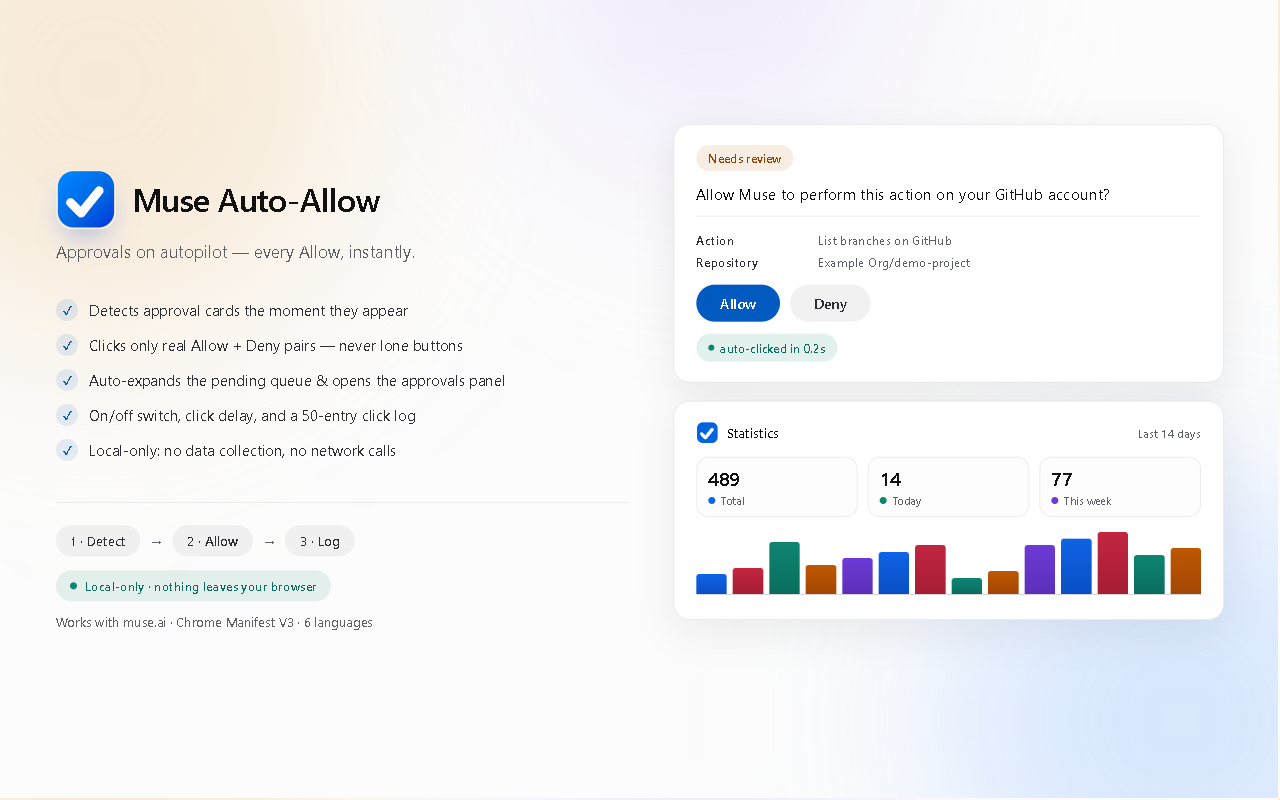
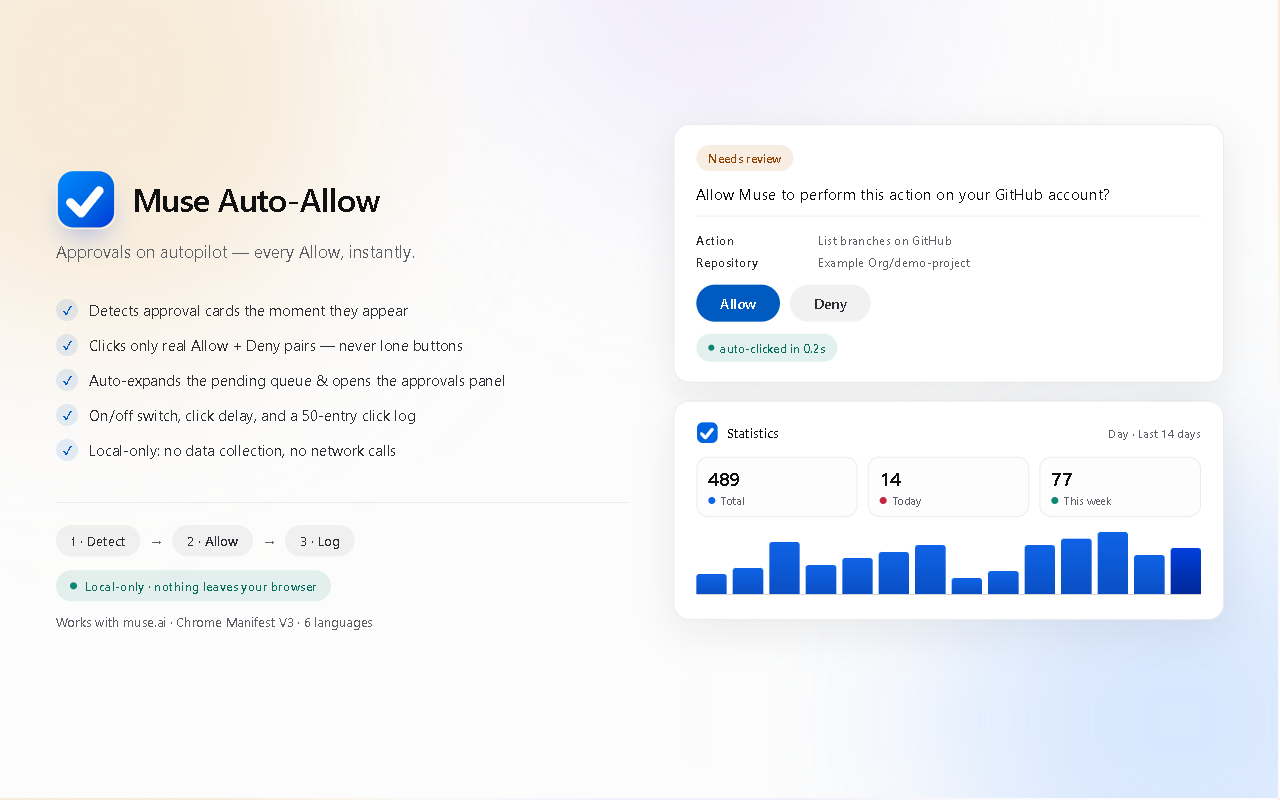
feat(v1.7.0 W2): premium stats chart + full store asset re-render
Single-hue trend with today accent, palette-aligned KPI chips, dynamic range caption, y-max gridline; all six store assets re-rendered from the frozen UI (popup seeds follow-up ON), PNG sizes exact, marquee truncation defect fixed; BRANDING/SHOWCASE updated with computed contrast. Vision 9-10/10 light+dark.

Changed region(s): [[0.5625, 0.6562, 0.9375, 0.75]]

diff --git a/extension/stats.html b/extension/stats.html
@@ -7,28 +7,31 @@
   :root { color-scheme: light dark;
           --blue: #005abf; --ink: #111112; --muted: #4a4e54; --bg: #fcfcfc; --surface: #ffffff;
           --line: rgba(17,17,18,.08); --fill: rgba(17,17,18,.05);
-          --axis: rgba(17,17,18,.32); --hairline: rgba(17,17,18,.07); --divide: rgba(17,17,18,.16); --focus: #005abf;
+          --axis: rgba(17,17,18,.32); --hairline: rgba(17,17,18,.07); --divide: rgba(17,17,18,.16); --grid: rgba(17,17,18,.34); --focus: #005abf;
           /* data-viz palette — light stops (every stop >= 4.5:1 on --surface) */
           --c-blue: #0f63e6;   --c-blue-b: #0a4fc4;
           --c-rose: #c2263f;   --c-rose-b: #a51e35;
           --c-teal: #0e8571;   --c-teal-b: #0a6d5d;
           --c-amber: #bf5700;  --c-amber-b: #a34705;
           --c-violet: #6d3ad6; --c-violet-b: #5c2fb8;
+          /* trend chart: single-hue bars + brand-deep accent for the latest ('today') bar */
+          --c-now: #0040DC; --c-now-m: #0030b0; --c-now-b: #00289c; --now-ink: #005abf;
           /* glyph ink for tinted chips (deeper in light, brighter in dark) */
-          --c-blue-g: #0a4fc4; --c-teal-g: #0a6d5d; --c-violet-g: #5c2fb8; --c-amber-g: #a34705;
+          --c-blue-g: #0a4fc4; --c-rose-g: #a51e35; --c-teal-g: #0a6d5d; --c-violet-g: #5c2fb8; --c-amber-g: #a34705;
           --sh-1: 0 1px 2px rgba(17,17,18,.05);
           --sh-2: 0 1px 2px rgba(17,17,18,.04), 0 16px 36px -24px rgba(17,17,18,.30); }
   @media (prefers-color-scheme: dark) {
     :root { --blue: #0a5ce0; --ink: #e4e6eb; --muted: #b0b3b8; --bg: #18191a; --surface: #242526;
             --line: #3e4042; --fill: #3a3b3c;
-            --axis: rgba(228,230,235,.36); --hairline: rgba(228,230,235,.08); --divide: rgba(228,230,235,.20); --focus: #7cb0ff;
+            --axis: rgba(228,230,235,.36); --hairline: rgba(228,230,235,.08); --divide: rgba(228,230,235,.20); --grid: rgba(228,230,235,.50); --focus: #7cb0ff;
             /* data-viz palette — dark stops (every stop >= 4.5:1 on --surface) */
             --c-blue: #5aa5ff;   --c-blue-b: #3f8ceb;
             --c-rose: #ff8296;   --c-rose-b: #f06680;
             --c-teal: #35d2b8;   --c-teal-b: #22b89e;
             --c-amber: #f2b435;  --c-amber-b: #dfa11c;
             --c-violet: #ab93fb; --c-violet-b: #9a83f5;
-            --c-blue-g: #5aa5ff; --c-teal-g: #35d2b8; --c-violet-g: #ab93fb; --c-amber-g: #f2b435;
+            --c-now: #a9caff; --c-now-m: #97c0ff; --c-now-b: #7fb0ff; --now-ink: #7cb0ff;
+            --c-blue-g: #5aa5ff; --c-rose-g: #ff8296; --c-teal-g: #35d2b8; --c-violet-g: #ab93fb; --c-amber-g: #f2b435;
             --sh-1: 0 1px 2px rgba(0,0,0,.35);
             --sh-2: 0 1px 2px rgba(0,0,0,.30), 0 20px 44px -28px rgba(0,0,0,.85); }
   }
@@ -64,6 +67,7 @@
   .kpi .v { font-size: 28px; font-weight: 600; letter-spacing: -0.02em; line-height: 1.1; color: var(--ink); font-variant-numeric: tabular-nums; }
   .kpi .l { font-size: 12px; color: var(--muted); margin-top: 3px; letter-spacing: .01em; }
   .k-blue   { --kc: var(--c-blue);   --kc-g: var(--c-blue-g); }
+  .k-rose   { --kc: var(--c-rose);   --kc-g: var(--c-rose-g); }
   .k-teal   { --kc: var(--c-teal);   --kc-g: var(--c-teal-g); }
   .k-violet { --kc: var(--c-violet); --kc-g: var(--c-violet-g); }
   .k-amber  { --kc: var(--c-amber);  --kc-g: var(--c-amber-g); }
@@ -73,17 +77,20 @@
   .chart .ccap { font-size: 12.5px; font-weight: 500; letter-spacing: .01em; color: var(--muted); margin-bottom: 8px; }
   .chart svg { display: block; width: 100%; height: auto; }
   .chart line.base { stroke: var(--axis); stroke-width: 1.25; }
+  .chart line.grid { stroke: var(--grid); stroke-width: 1; stroke-dasharray: 3 4; }
   .chart rect.bar { transition: filter .15s ease; }
+  .chart rect.bar.now { stroke: var(--now-ink); stroke-width: 1.5; }
   .chart rect.bar:hover { filter: brightness(1.06); }
   .chart text { fill: var(--muted); font-size: 11px; letter-spacing: .01em; }
   .chart text.val { fill: var(--ink); font-size: 11px; font-weight: 500; }
+  .chart text.tick { font-size: 10.5px; letter-spacing: .02em; paint-order: stroke; stroke: var(--surface); stroke-width: 3px; stroke-linejoin: round; }
+  .chart text.now { fill: var(--now-ink); font-weight: 600; }
+  .chart text.val.now { fill: var(--now-ink); }
 
-  /* data-viz color classes (shared by chart gradient stops + topic bars/dots) */
-  .sc-blue { stop-color: var(--c-blue); }     .sc-blue-b { stop-color: var(--c-blue-b); }
-  .sc-rose { stop-color: var(--c-rose); }     .sc-rose-b { stop-color: var(--c-rose-b); }
-  .sc-teal { stop-color: var(--c-teal); }     .sc-teal-b { stop-color: var(--c-teal-b); }
-  .sc-amber { stop-color: var(--c-amber); }   .sc-amber-b { stop-color: var(--c-amber-b); }
-  .sc-violet { stop-color: var(--c-violet); } .sc-violet-b { stop-color: var(--c-violet-b); }
+  /* data-viz color classes: trend-chart gradient stops (single hue + brand accent).
+     The five-hue palette below (t-*) is categorical only — topics + KPI chips. */
+  .sc-blue { stop-color: var(--c-blue); }  .sc-blue-b { stop-color: var(--c-blue-b); }
+  .sc-now { stop-color: var(--c-now); }    .sc-now-m { stop-color: var(--c-now-m); }  .sc-now-b { stop-color: var(--c-now-b); }
   .t-blue   { --tc: var(--c-blue);   --tcb: var(--c-blue-b); }
   .t-rose   { --tc: var(--c-rose);   --tcb: var(--c-rose-b); }
   .t-teal   { --tc: var(--c-teal);   --tcb: var(--c-teal-b); }
@@ -100,14 +107,14 @@
   .topic .name { width: 180px; overflow: hidden; text-overflow: ellipsis; white-space: nowrap; color: var(--ink); }
   .topic .bar { flex: 1; height: 10px; background: var(--fill); border-radius: 999px; overflow: hidden; }
   .topic .bar i { display: block; height: 100%; width: 0; border-radius: 999px;
-                  background: linear-gradient(90deg, var(--tc, var(--blue)), var(--tcb, var(--blue)));
+                  background: var(--tc, var(--blue));
                   transition: width .35s ease; }
   .topic .n { width: 56px; text-align: right; color: var(--ink); font-weight: 600; font-size: 13px; font-variant-numeric: tabular-nums; }
   .empty { color: var(--muted); padding: 10px 0; }
 
   /* ---- footer ---- */
   .footrow { display: flex; align-items: center; justify-content: space-between; margin-top: 12px; }
-  .foot { color: var(--muted); font-size: 12px; letter-spacing: .01em; }
+  .foot { color: color-mix(in srgb, var(--muted) 35%, var(--ink)); font-size: 13px; font-weight: 500; letter-spacing: .01em; }
   .tools { display: flex; gap: 8px; }
   .tool { background: var(--fill); color: var(--ink); border: 1px solid var(--line); border-radius: 999px;
           padding: 7px 16px; cursor: pointer; font: inherit; font-weight: 500; box-shadow: var(--sh-1);
@@ -144,11 +151,11 @@
       <span class="ic" aria-hidden="true"><svg viewBox="0 0 24 24"><path d="M5 12.6l4.4 4.4L19 6.4"/></svg></span>
       <span class="kv"><span class="v" id="kTotal">0</span><span class="l" data-i18n="totalLabel">Total</span></span>
     </div>
-    <div class="kpi k-teal">
+    <div class="kpi k-rose">
       <span class="ic" aria-hidden="true"><svg viewBox="0 0 24 24"><circle cx="12" cy="12" r="8.6"/><path d="M12 7.4V12l3.1 2.1"/></svg></span>
       <span class="kv"><span class="v" id="kToday">0</span><span class="l" data-i18n="todayLabel">Today</span></span>
     </div>
-    <div class="kpi k-violet">
+    <div class="kpi k-teal">
       <span class="ic" aria-hidden="true"><svg viewBox="0 0 24 24"><rect x="3.5" y="5" width="17" height="15.5" rx="3.5"/><path d="M3.5 9.8h17"/><circle cx="12" cy="14.8" r="1.9"/></svg></span>
       <span class="kv"><span class="v" id="kWeek">0</span><span class="l" data-i18n="weekLabel">This week</span></span>
     </div>
@@ -168,8 +175,8 @@
   <div class="footrow">
     <span class="foot" data-i18n="onlyMuse">Works only on muse.ai</span>
     <span class="tools">
-      <button class="tool primary" id="exportData" data-i18n="exportData">Export data</button>
       <button class="tool" id="importData" data-i18n="importData">Import data</button>
+      <button class="tool primary" id="exportData" data-i18n="exportData">Export data</button>
     </span>
   </div>
   <input type="file" id="importFile" accept="application/json" style="display:none">

diff --git a/extension/stats.js b/extension/stats.js
@@ -67,46 +67,63 @@ const CAP = {
   month: ['last12m', 'Last 12 months'],
   year: ['allYears', 'All years'],
 };
+// The caption pairs the ACTIVE range's own word (read back from the localized control) with
+// its window, so 'Day' + 'Last 14 days' can never be misread as contradicting each other.
+const RANGE_KEY = { day: 'rangeDay', week: 'rangeWeek', month: 'rangeMonth', year: 'rangeYear' };
 
 function renderChart() {
   const svg = $('chart');
   const data = series();
-  $('ccap').textContent = t(CAP[RANGE][0], CAP[RANGE][1]);
+  const segBtn = document.querySelector('#seg button[data-range="' + RANGE + '"]');
+  $('ccap').textContent = t(RANGE_KEY[RANGE], segBtn ? segBtn.textContent : RANGE) + ' \u00b7 ' + t(CAP[RANGE][0], CAP[RANGE][1]);
   const W = 720, H = 158, padL = 8, padR = 8, padT = 26, padB = 22;
   const innerW = W - padL - padR, innerH = H - padT - padB;
   const n = data.length || 1;
   const gap = Math.max(3, Math.floor(innerW / n * 0.22));
   const bw = Math.max(4, Math.floor((innerW - gap * (n - 1)) / n));
   const max = Math.max(1, ...data.map((x) => x.v));
-  let out = '<defs>';
-  for (const c of PALETTE) out += '<linearGradient id="g-' + c + '" x1="0" y1="0" x2="0" y2="1"><stop class="sc-' + c + '" offset="0"/><stop class="sc-' + c + '-b" offset="1"/></linearGradient>';
-  out += '</defs>';
+  // Single-hue trend (comparable heights — colour encodes nothing): every bar shares the
+  // brand-blue value gradient; the latest ('today') bar carries the brand-gradient accent.
+  let out = '<defs>' +
+    '<linearGradient id="g-trend" x1="0" y1="0" x2="0" y2="1"><stop class="sc-blue" offset="0"/><stop class="sc-blue-b" offset="1"/></linearGradient>' +
+    '<linearGradient id="g-now" x1="0" y1="0" x2="0" y2="1"><stop class="sc-now" offset="0"/><stop class="sc-now-m" offset="0.62"/><stop class="sc-now-b" offset="1"/></linearGradient>' +
+    '</defs>';
+  // y-max gridline + tick anchor the vertical scale (skipped when there is nothing to scale)
+  const yMax = Math.max(0, ...data.map((x) => x.v));
+  if (yMax > 0) out += '<line class="grid" x1="' + padL + '" y1="' + padT + '" x2="' + (W - padR) + '" y2="' + padT + '"/>' +
+    '<text class="tick" x="' + padL + '" y="' + (padT - 1) + '">' + yMax + '</text>';
   out += '<line class="base" x1="' + padL + '" y1="' + (padT + innerH) + '" x2="' + (W - padR) + '" y2="' + (padT + innerH) + '"/>';
   data.forEach((x, i) => {
-    const c = PALETTE[i % PALETTE.length];
+    const last = i === data.length - 1;
+    const now = last && !!x.v; // the accent marks the latest bucket only when it has data
     const h = x.v ? Math.max(2, Math.round(innerH * (x.v / max))) : 1;
     const xx = padL + i * (bw + gap);
     const y = padT + innerH - h;
-    out += '<rect class="bar" x="' + xx + '" y="' + y + '" width="' + bw + '" height="' + h + '" rx="4" fill="url(#g-' + c + ')" opacity="' + (x.v ? 1 : 0.15) + '"><title>' + x.label + ': ' + x.v + '</title></rect>';
-    if (x.v) out += '<text class="val" x="' + (xx + bw / 2) + '" y="' + (y - 5) + '" text-anchor="middle">' + x.v + '</text>';
-    out += '<text x="' + (xx + bw / 2) + '" y="' + (H - 8) + '" text-anchor="middle">' + x.label + '</text>';
+    // subtle value gradient: taller bars sit a touch more solid; accent + empty stubs are fixed
+    const op = x.v ? (now ? 1 : (0.84 + 0.16 * (x.v / max)).toFixed(2)) : 0.15;
+    out += '<rect class="bar' + (now ? ' now' : '') + '" x="' + xx + '" y="' + y + '" width="' + bw + '" height="' + h + '" rx="4" fill="url(#' + (now ? 'g-now' : 'g-trend') + ')" opacity="' + op + '"><title>' + x.label + ': ' + x.v + '</title></rect>';
+    if (x.v) out += '<text class="val' + (now ? ' now' : '') + '" x="' + (xx + bw / 2) + '" y="' + (y - 5) + '" text-anchor="middle">' + x.v + '</text>';
+    out += '<text' + (last ? ' class="now"' : '') + ' x="' + (xx + bw / 2) + '" y="' + (H - 8) + '" text-anchor="middle">' + x.label + '</text>';
   });
   svg.innerHTML = out;
 }
 
 function renderTopics() {
   const wrap = $('topics');
-  const entries = Object.entries(STATS.byTopic).map(([k, v]) => [String(k), num(v)]).sort((a, b) => b[1] - a[1]).slice(0, 12);
+  const all = Object.entries(STATS.byTopic).map(([k, v]) => [String(k), num(v)]).sort((a, b) => b[1] - a[1]);
+  const entries = all.slice(0, 12);
   if (!entries.length) {
     wrap.innerHTML = '<div class="empty">' + t('noData', 'No data yet') + '</div>';
     return;
   }
-  const max = entries[0][1] || 1;
+  // share-of-total bars (every recorded topic counts): 231 of 489 reads as a true 47 % track,
+  // never a misleading "100 %"
+  const sum = all.reduce((s, e) => s + e[1], 0) || 1;
   wrap.innerHTML = entries.map(([name, v], i) => {
     const c = PALETTE[i % PALETTE.length];
     return '<div class="topic"><span class="dot t-' + c + '"></span>' +
       '<span class="name" title="' + name.replace(/"/g, '&quot;') + '">' + name.replace(/[<>&]/g, '') + '</span>' +
-      '<span class="bar"><i class="t-' + c + '" style="width:' + Math.max(4, Math.round(v / max * 100)) + '%"></i></span>' +
+      '<span class="bar"><i class="t-' + c + '" style="width:' + Math.max(4, Math.round(v / sum * 100)) + '%"></i></span>' +
       '<span class="n">' + v + '</span></div>';
   }).join('');
 }

diff --git a/assets/marquee.html b/assets/marquee.html
@@ -55,12 +55,9 @@
   .mini-card .head b { font-size: 12.5px; font-weight: 600; }
   .mini-card .head span { margin-left: auto; font-size: 11px; color: #6a6e74; }
   .mbars { display: flex; align-items: flex-end; gap: 5px; height: 56px; border-bottom: 1px solid rgba(17,17,18,.12); }
-  .mbars i { flex: 1; border-radius: 3px 3px 0 0; display: block; }
-  .mbars i.c1 { background: linear-gradient(180deg, #0f63e6, #0a4fc4); }
-  .mbars i.c2 { background: linear-gradient(180deg, #c2263f, #a51e35); }
-  .mbars i.c3 { background: linear-gradient(180deg, #0e8571, #0a6d5d); }
-  .mbars i.c4 { background: linear-gradient(180deg, #bf5700, #a34705); }
-  .mbars i.c5 { background: linear-gradient(180deg, #6d3ad6, #5c2fb8); }
+  .mbars i { flex: 1; border-radius: 3px 3px 0 0; display: block;
+             background: linear-gradient(180deg, #0f63e6, #0a4fc4); }
+  .mbars i.now { background: linear-gradient(180deg, #0040DC, #0030b0 62%, #00289c); }
   .mfoot { display: flex; align-items: baseline; gap: 7px; margin-top: 10px; }
   .mfoot .v { font-size: 20px; font-weight: 600; letter-spacing: -0.01em; font-variant-numeric: tabular-nums; }
   .mfoot .t { font-size: 12px; color: #6a6e74; }
@@ -101,7 +98,7 @@
         <div class="crow"><span class="cbx"></span>Auto-click Allow</div>
         <div class="clog">
           <div class="cli"><span class="t">15:01</span><span class="pill">allow</span><span class="ctx">Approved pull request read &mdash; demo-project</span></div>
-          <div class="cli"><span class="t">14:57</span><span class="pill">allow</span><span class="ctx">Approved branch create &mdash; sample-app</span></div>
+          <div class="cli"><span class="t">14:57</span><span class="pill">allow</span><span class="ctx">Approved branch creation &mdash; sample-app</span></div>
           <div class="cli"><span class="t">14:52</span><span class="pill expand">expand</span><span class="ctx">Expanded pending queue &mdash; 2 tasks</span></div>
           <div class="cli"><span class="t">14:49</span><span class="pill open">open panel</span><span class="ctx">Opened the approvals panel</span></div>
         </div>
@@ -111,13 +108,13 @@
         <div class="head">
           <svg class="lg" viewBox="0 0 512 512"><rect x="16" y="16" width="480" height="480" rx="133" fill="#0064E0"/><path d="M124 284 L214 374 L368 182" fill="none" stroke="#fff" stroke-width="76" stroke-linecap="round" stroke-linejoin="round"/></svg>
           <b>Statistics</b>
-          <span>Last 14 days</span>
+          <span>Day &middot; Last 14 days</span>
         </div>
         <div class="mbars">
-          <i class="c1" style="height:32%"></i><i class="c2" style="height:42%"></i><i class="c3" style="height:84%"></i><i class="c4" style="height:47%"></i>
-          <i class="c5" style="height:58%"></i><i class="c1" style="height:68%"></i><i class="c2" style="height:79%"></i><i class="c3" style="height:26%"></i>
-          <i class="c4" style="height:37%"></i><i class="c5" style="height:79%"></i><i class="c1" style="height:89%"></i><i class="c2" style="height:100%"></i>
-          <i class="c3" style="height:63%"></i><i class="c4" style="height:74%"></i>
+          <i style="height:32%"></i><i style="height:42%"></i><i style="height:84%"></i><i style="height:47%"></i>
+          <i style="height:58%"></i><i style="height:68%"></i><i style="height:79%"></i><i style="height:26%"></i>
+          <i style="height:37%"></i><i style="height:79%"></i><i style="height:89%"></i><i style="height:100%"></i>
+          <i style="height:63%"></i><i class="now" style="height:74%"></i>
         </div>
         <div class="mfoot"><span class="v">489</span><span class="t">Total allows &middot; trending up</span></div>
       </div>

diff --git a/assets/store-screenshot.html b/assets/store-screenshot.html
@@ -57,15 +57,12 @@
   .kchip .n { font-size: 19px; font-weight: 600; letter-spacing: -0.01em; font-variant-numeric: tabular-nums; color: #111112; }
   .kchip .t { display: flex; align-items: center; gap: 6px; font-size: 11px; color: #5c6066; margin-top: 2px; }
   .kchip .t i { width: 7px; height: 7px; border-radius: 50%; display: inline-block; }
-  .kchip .t i.blue { background: #0f63e6; } .kchip .t i.teal { background: #0e8571; } .kchip .t i.violet { background: #6d3ad6; }
+  .kchip .t i.blue { background: #0f63e6; } .kchip .t i.rose { background: #c2263f; } .kchip .t i.teal { background: #0e8571; }
   .bars { display: flex; align-items: flex-end; gap: 6px; height: 62px; border-bottom: 1px solid rgba(17,17,18,.18);
           margin-bottom: 4px; }
-  .bars i { flex: 1; border-radius: 3px 3px 0 0; display: block; }
-  .bars i.c1 { background: linear-gradient(180deg, #0f63e6, #0a4fc4); }
-  .bars i.c2 { background: linear-gradient(180deg, #c2263f, #a51e35); }
-  .bars i.c3 { background: linear-gradient(180deg, #0e8571, #0a6d5d); }
-  .bars i.c4 { background: linear-gradient(180deg, #bf5700, #a34705); }
-  .bars i.c5 { background: linear-gradient(180deg, #6d3ad6, #5c2fb8); }
+  .bars i { flex: 1; border-radius: 3px 3px 0 0; display: block;
+            background: linear-gradient(180deg, #0f63e6, #0a4fc4); }
+  .bars i.now { background: linear-gradient(180deg, #0040DC, #0030b0 62%, #00289c); }
 </style></head>
 <body>
   <div class="blob b1"></div><div class="blob b2"></div><div class="blob b3"></div>
@@ -119,18 +116,18 @@
         <div class="head">
           <svg class="mini" viewBox="0 0 512 512"><rect x="16" y="16" width="480" height="480" rx="133" fill="#0064E0"/><path d="M124 284 L214 374 L368 182" fill="none" stroke="#fff" stroke-width="76" stroke-linecap="round" stroke-linejoin="round"/></svg>
           <b>Statistics</b>
-          <span class="range">Last 14 days</span>
+          <span class="range">Day &middot; Last 14 days</span>
         </div>
         <div class="kstrip">
           <div class="kchip"><div class="n">489</div><div class="t"><i class="blue"></i>Total</div></div>
-          <div class="kchip"><div class="n">14</div><div class="t"><i class="teal"></i>Today</div></div>
-          <div class="kchip"><div class="n">77</div><div class="t"><i class="violet"></i>This week</div></div>
+          <div class="kchip"><div class="n">14</div><div class="t"><i class="rose"></i>Today</div></div>
+          <div class="kchip"><div class="n">77</div><div class="t"><i class="teal"></i>This week</div></div>
         </div>
         <div class="bars">
-          <i class="c1" style="height:32%"></i><i class="c2" style="height:42%"></i><i class="c3" style="height:84%"></i><i class="c4" style="height:47%"></i>
-          <i class="c5" style="height:58%"></i><i class="c1" style="height:68%"></i><i class="c2" style="height:79%"></i><i class="c3" style="height:26%"></i>
-          <i class="c4" style="height:37%"></i><i class="c5" style="height:79%"></i><i class="c1" style="height:89%"></i><i class="c2" style="height:100%"></i>
-          <i class="c3" style="height:63%"></i><i class="c4" style="height:74%"></i>
+          <i style="height:32%"></i><i style="height:42%"></i><i style="height:84%"></i><i style="height:47%"></i>
+          <i style="height:58%"></i><i style="height:68%"></i><i style="height:79%"></i><i style="height:26%"></i>
+          <i style="height:37%"></i><i style="height:79%"></i><i style="height:89%"></i><i style="height:100%"></i>
+          <i style="height:63%"></i><i class="now" style="height:74%"></i>
         </div>
       </div>
     </div>

diff --git a/docs/BRANDING.md b/docs/BRANDING.md
@@ -54,17 +54,18 @@ Evidence base (recon 2026-10-09, captured from the live site):
 | Success dot | `#31a24c` | `#45c463` |
 
 Contrast (computed from these tokens): `--ink` on `--bg` 18.39:1; `--muted` on `--bg` 8.16:1
-(light); white on `--blue` 6.0:1 (light) / 5.80:1 (dark `#0a5ce0`). The dark accent is a
+(light); white on `--blue` 6.53:1 (light) / 5.80:1 (dark `#0a5ce0`). The dark accent is a
 filled-control background (paired with white text, 5.80:1), not body text on `--bg`.
 All shipped text pairs ≥ 5.30:1 (WCAG AA).
 
 ### 3.1 Data-visualization palette (Statistics dashboard + designed assets)
 
-Charts, topic bars/dots and KPI chips cycle a curated five-hue palette. Each hue has a lighter
-"top" and a deeper "bottom" gradient stop; the segmented control, focus ring and designed-asset
-accents reuse the same hues. Every stop is ≥ 4.5:1 against the card surface it sits on — the
-3:1 non-text minimum (WCAG 1.4.11) is met with headroom, so the same tokens stay safe for small
-glyphs (KPI chips, dots) as well.
+Topic bars/dots and KPI chips cycle a curated five-hue palette; the trend chart is deliberately
+single-hue (brand blue + one "today" accent). Each hue has a lighter "top" and a deeper "bottom"
+gradient stop; the segmented control, focus ring and designed-asset accents reuse the same hues.
+Every stop is ≥ 4.5:1 against the card surface it sits on — the 3:1 non-text minimum
+(WCAG 1.4.11) is met with headroom, so the same tokens stay safe for small glyphs
+(KPI chips, dots) as well.
 
 | Hue | Light top / bottom stop | vs `#ffffff` (card) | Dark top / bottom stop | vs `#242526` (card) |
 |---|---|---|---|---|
@@ -74,11 +75,17 @@ glyphs (KPI chips, dots) as well.
 | Amber | `#bf5700` / `#a34705` | 4.59:1 / 6.07:1 | `#f2b435` / `#dfa11c` | 8.30:1 / 6.77:1 |
 | Violet | `#6d3ad6` / `#5c2fb8` | 6.51:1 / 8.22:1 | `#ab93fb` / `#9a83f5` | 6.07:1 / 5.07:1 |
 
-- Cycle order (positional, deliberately decorative — one metric over time, so colour carries no
-  categorical claim): blue → rose → teal → amber → violet.
-- KPI chips: Total = blue, Today = teal, This week = violet, This month = amber. Chip glyph ink
-  is the deeper stop on a 13 % tint in light (5.10–6.72:1) and the bright stop on a 13 % tint in
-  dark (4.83–6.28:1).
+- Trend chart (single series → single hue; colour encodes nothing): every bar shares the
+  brand-blue value gradient (light `#0f63e6 → #0a4fc4`, dark `#5aa5ff → #3f8ceb`); the latest
+  ("today") bar carries the brand-gradient accent — light stops `#0040DC / #0030b0 / #00289c`
+  (7.59:1 / 10.25:1 / 11.77:1 on `#ffffff`), dark stops `#a9caff / #97c0ff / #7fb0ff`
+  (9.20:1 / 8.26:1 / 6.99:1 on `#242526`) — with a `#005abf` (light) / `#7cb0ff` (dark) outline
+  and matching "now" value/label ink (6.53:1 on white / 6.95:1 on `#242526`). A dashed y-max
+  gridline + tick (34 % alpha light / 50 % dark) anchors the vertical scale.
+- Cycle order (positional): blue → rose → teal → amber → violet. Topic rows take the next hue by
+  rank (decorative — bar length is the datum); KPI chips fix it as Total = blue, Today = rose,
+  This week = teal, This month = amber. Chip glyph ink is the deeper stop on a 13 % tint in light
+  (5.10–6.02:1) and the bright stop on a 13 % tint in dark (4.83–6.28:1).
 - Segmented control: white on `#005abf` 6.53:1 (light) / `#0a5ce0` 5.80:1 (dark).
   Focus ring: `#005abf` on `#fcfcfc` 6.37:1 (light) / `#7cb0ff` on `#18191a` 7.97:1 (dark).
 - Chart baseline and topic-row dividers are decorative (non-informational) hairlines

diff --git a/store/SHOWCASE.md b/store/SHOWCASE.md
@@ -8,7 +8,7 @@ files.example.com) — never real projects or personal data.
 |---|---|---|---|
 | Extension icon | `extension/icons/icon128.png` | 128×128 | required (in package) |
 | Screenshot 1 — live popup + approval cards (real runtime capture) | `store/screenshot1.png` | 1280×800 | required (≥1; 1280×800 or 640×400) |
-| Screenshot 2 — Statistics dashboard (real render, premium colorful data-viz — `docs/BRANDING.md` §3.1) | `store/screenshot2-stats.png` | 1280×800 | up to 5 total |
+| Screenshot 2 — Statistics dashboard (real render — single-hue trend + topic palette, `docs/BRANDING.md` §3.1) | `store/screenshot2-stats.png` | 1280×800 | up to 5 total |
 | Screenshot 3 — popup (real render) | `store/screenshot3-popup.png` | 1280×800 | up to 5 total |
 | Screenshot 4 — designed overview (approval card + layered mini Statistics card) | `store/screenshot4-overview.png` | 1280×800 | up to 5 total |
 | Small promo tile (palette-dot chips) | `store/promo440x280.png` | 440×280 | optional (featured placement) |
@@ -16,7 +16,7 @@ files.example.com) — never real projects or personal data.
 | Listing copy (6 locales) | `store/LISTING.md` | — | title / short / full description per locale |
 | Permission justifications | `store/LISTING.md` §5 | — | required in dashboard |
 | Privacy policy | `store/PRIVACY.md` | — | required (public URL before submit) |
-| Package | `dist/muse-auto-allow-v1.5.0.zip` | 18 files | built by `scripts/build.mjs`, byte-verified by `scripts/verify-zip.py` |
+| Package | `dist/muse-auto-allow-v1.6.0.zip` | 18 files | built by `scripts/build.mjs`, byte-verified by `scripts/verify-zip.py` |
 | Brand spec | `docs/BRANDING.md` | — | internal reference (tokens, mark, rules) |
 
 ## Regenerate everything
@@ -38,4 +38,4 @@ store images are light-theme (Muse language).
 - [ ] Paste listing copy per locale from `store/LISTING.md`
 - [ ] Paste permission justifications (storage / alarms / host)
 - [ ] Host the privacy policy at a public URL and paste it into the dashboard
-- [ ] Build + verify the zip; upload `dist/muse-auto-allow-v1.5.0.zip`
+- [ ] Build + verify the zip; upload `dist/muse-auto-allow-v1.6.0.zip`
